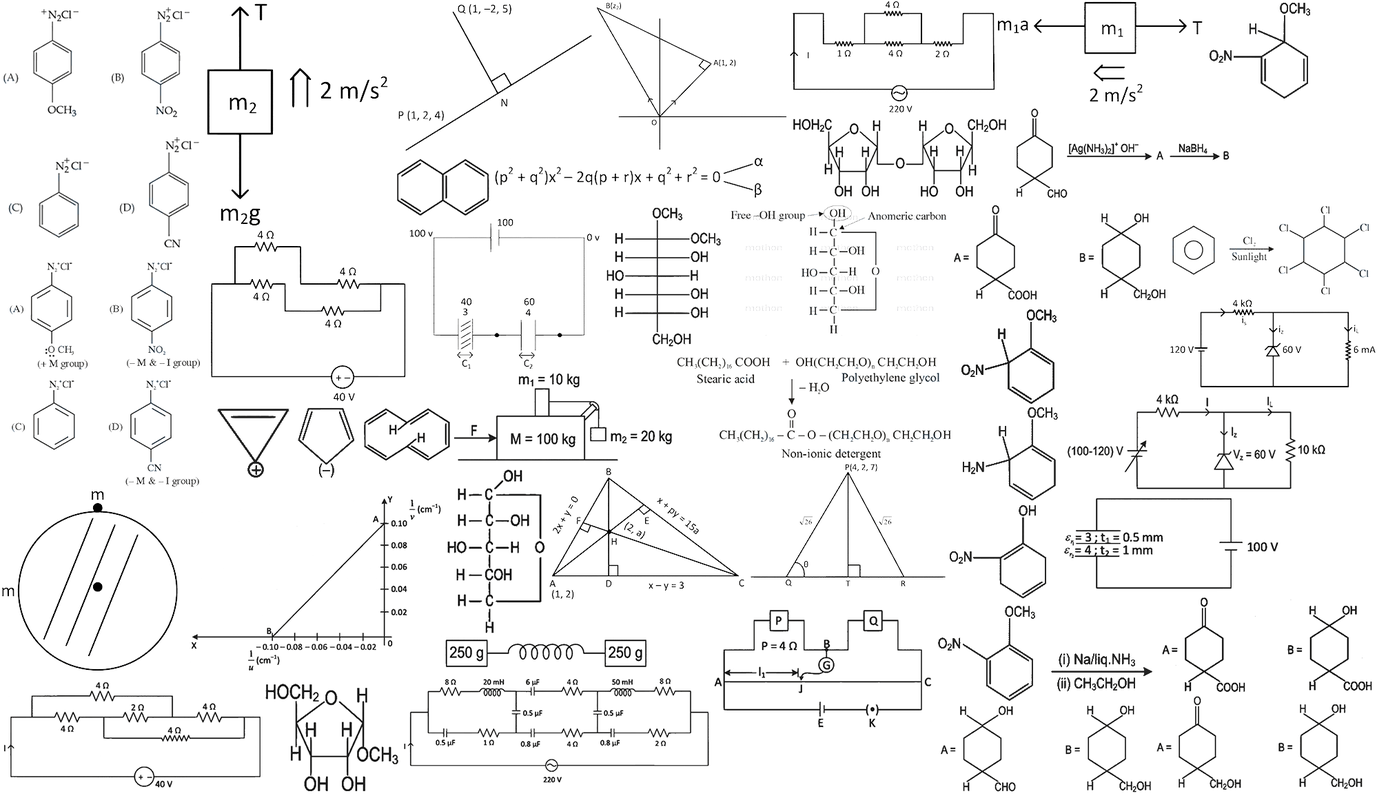
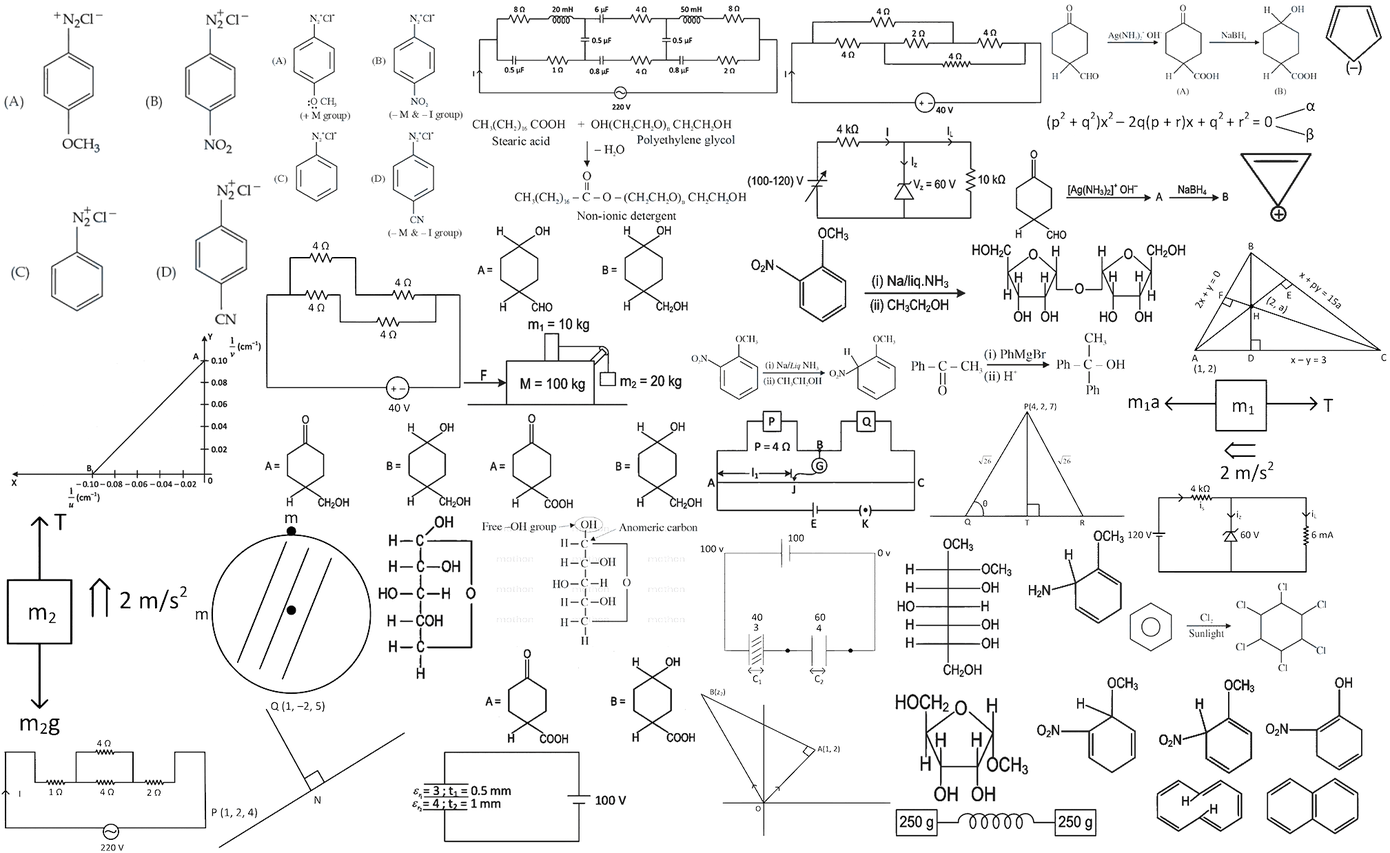
Fixed

diff --git a/img/jee/mains/prev/M2022_26_july_s1.css b/img/jee/mains/prev/M2022_26_july_s1.css
@@ -8,133 +8,142 @@ Responsive: <div class="yourspritesname"></div>
 
 
 .JEEMAINS_26JULY_S2_Q_13_O_1 {max-width:92px; max-height:108px; }
-.JEEMAINS_26JULY_S2_Q_13_O_1::after {content: '\00a0';display: inline-block; width:92px; height:108px; background-position: 22.29800629590766% 55.873925501432666%;background-size: 2171.7391304347825% 1069.4444444444443%;background-image: url(M2022_26_july_s1.png);padding: 0; }
+.JEEMAINS_26JULY_S2_Q_13_O_1::after {content: '\00a0';display: inline-block; width:92px; height:108px; background-position: 99.53246753246754% 0.08849557522123894%;background-size: 2192.391304347826% 1146.2962962962963%;background-image: url(M2022_26_july_s1.png);padding: 0; }
 div.JEEMAINS_26JULY_S2_Q_13_O_1::after {max-width:92px; width:100%;height:0;padding: 0 0 117.3913043478261% 0;}
 .JEEMAINS_26JULY_S2_Q_13_O_2 {max-width:122px; max-height:112px; }
-.JEEMAINS_26JULY_S2_Q_13_O_2::after {content: '\00a0';display: inline-block; width:122px; height:112px; background-position: 16.098081023454156% 56.0882070949185%;background-size: 1637.704918032787% 1031.25%;background-image: url(M2022_26_july_s1.png);padding: 0; }
+.JEEMAINS_26JULY_S2_Q_13_O_2::after {content: '\00a0';display: inline-block; width:122px; height:112px; background-position: 94.24802110817942% 19.00532859680284%;background-size: 1653.27868852459% 1105.357142857143%;background-image: url(M2022_26_july_s1.png);padding: 0; }
 div.JEEMAINS_26JULY_S2_Q_13_O_2::after {max-width:122px; width:100%;height:0;padding: 0 0 91.80327868852459% 0;}
 .JEEMAINS_26JULY_S2_Q_13_O_3 {max-width:140px; max-height:90px; }
-.JEEMAINS_26JULY_S2_Q_13_O_3::after {content: '\00a0';display: inline-block; width:140px; height:90px; background-position: 27.879440258342303% 54.929577464788736%;background-size: 1427.142857142857% 1283.3333333333333%;background-image: url(M2022_26_july_s1.png);padding: 0; }
+.JEEMAINS_26JULY_S2_Q_13_O_3::after {content: '\00a0';display: inline-block; width:140px; height:90px; background-position: 88.86521044219499% 97.90940766550523%;background-size: 1440.7142857142858% 1375.5555555555557%;background-image: url(M2022_26_july_s1.png);padding: 0; }
 div.JEEMAINS_26JULY_S2_Q_13_O_3::after {max-width:140px; width:100%;height:0;padding: 0 0 64.28571428571429% 0;}
 .JEEMAINS_26JULY_S2_Q_13_O_4 {max-width:140px; max-height:90px; }
-.JEEMAINS_26JULY_S2_Q_13_O_4::after {content: '\00a0';display: inline-block; width:140px; height:90px; background-position: 30.83961248654467% 21.12676056338028%;background-size: 1427.142857142857% 1283.3333333333333%;background-image: url(M2022_26_july_s1.png);padding: 0; }
+.JEEMAINS_26JULY_S2_Q_13_O_4::after {content: '\00a0';display: inline-block; width:140px; height:90px; background-position: 97.76238678742675% 97.82229965156795%;background-size: 1440.7142857142858% 1375.5555555555557%;background-image: url(M2022_26_july_s1.png);padding: 0; }
 div.JEEMAINS_26JULY_S2_Q_13_O_4::after {max-width:140px; width:100%;height:0;padding: 0 0 64.28571428571429% 0;}
 .JEEMAINS_26JULY_S2_Q_14 {max-width:320px; max-height:133px; }
-.JEEMAINS_26JULY_S2_Q_14::after {content: '\00a0';display: inline-block; width:320px; height:133px; background-position: 87.36591179976162% 15.068493150684931%;background-size: 624.375% 868.421052631579%;background-image: url(M2022_26_july_s1.png);padding: 0; }
+.JEEMAINS_26JULY_S2_Q_14::after {content: '\00a0';display: inline-block; width:320px; height:133px; background-position: 86.32881555686505% 19.36651583710407%;background-size: 630.3125% 930.827067669173%;background-image: url(M2022_26_july_s1.png);padding: 0; }
 div.JEEMAINS_26JULY_S2_Q_14::after {max-width:320px; width:100%;height:0;padding: 0 0 41.5625% 0;}
 .JEEMAINS_26JULY_S2_Q_14_O_1 {max-width:320px; max-height:141px; }
-.JEEMAINS_26JULY_S2_Q_14_O_1::after {content: '\00a0';display: inline-block; width:320px; height:141px; background-position: 99.880810488677% 99.5069033530572%;background-size: 624.375% 819.1489361702128%;background-image: url(M2022_26_july_s1.png);padding: 0; }
+.JEEMAINS_26JULY_S2_Q_14_O_1::after {content: '\00a0';display: inline-block; width:320px; height:141px; background-position: 22.510312315851504% 54.78577939835916%;background-size: 630.3125% 878.0141843971631%;background-image: url(M2022_26_july_s1.png);padding: 0; }
 div.JEEMAINS_26JULY_S2_Q_14_O_1::after {max-width:320px; width:100%;height:0;padding: 0 0 44.0625% 0;}
 .JEEMAINS_26JULY_S2_Q_14_O_2 {max-width:320px; max-height:133px; }
-.JEEMAINS_26JULY_S2_Q_14_O_2::after {content: '\00a0';display: inline-block; width:320px; height:133px; background-position: 80.75089392133492% 99.90215264187867%;background-size: 624.375% 868.421052631579%;background-image: url(M2022_26_july_s1.png);padding: 0; }
+.JEEMAINS_26JULY_S2_Q_14_O_2::after {content: '\00a0';display: inline-block; width:320px; height:133px; background-position: 40.247495580436066% 29.41176470588235%;background-size: 630.3125% 930.827067669173%;background-image: url(M2022_26_july_s1.png);padding: 0; }
 div.JEEMAINS_26JULY_S2_Q_14_O_2::after {max-width:320px; width:100%;height:0;padding: 0 0 41.5625% 0;}
 .JEEMAINS_26JULY_S2_Q_14_O_3 {max-width:320px; max-height:143px; }
-.JEEMAINS_26JULY_S2_Q_14_O_3::after {content: '\00a0';display: inline-block; width:320px; height:143px; background-position: 99.880810488677% 85.47430830039525%;background-size: 624.375% 807.6923076923077%;background-image: url(M2022_26_july_s1.png);padding: 0; }
+.JEEMAINS_26JULY_S2_Q_14_O_3::after {content: '\00a0';display: inline-block; width:320px; height:143px; background-position: 40.895698291101944% 85.84474885844749%;background-size: 630.3125% 865.7342657342657%;background-image: url(M2022_26_july_s1.png);padding: 0; }
 div.JEEMAINS_26JULY_S2_Q_14_O_3::after {max-width:320px; width:100%;height:0;padding: 0 0 44.6875% 0;}
 .JEEMAINS_26JULY_S2_Q_14_O_4 {max-width:320px; max-height:150px; }
-.JEEMAINS_26JULY_S2_Q_14_O_4::after {content: '\00a0';display: inline-block; width:320px; height:150px; background-position: 82.00238379022646% 29.054726368159205%;background-size: 624.375% 770%;background-image: url(M2022_26_july_s1.png);padding: 0; }
+.JEEMAINS_26JULY_S2_Q_14_O_4::after {content: '\00a0';display: inline-block; width:320px; height:150px; background-position: 41.42604596346494% 54.6875%;background-size: 630.3125% 825.3333333333334%;background-image: url(M2022_26_july_s1.png);padding: 0; }
 div.JEEMAINS_26JULY_S2_Q_14_O_4::after {max-width:320px; width:100%;height:0;padding: 0 0 46.875% 0;}
 .JEEMAINS_26JULY_S2_Q_16 {max-width:320px; max-height:147px; }
-.JEEMAINS_26JULY_S2_Q_16::after {content: '\00a0';display: inline-block; width:320px; height:147px; background-position: 80.75089392133492% 86.60714285714286%;background-size: 624.375% 785.7142857142857%;background-image: url(M2022_26_july_s1.png);padding: 0; }
+.JEEMAINS_26JULY_S2_Q_16::after {content: '\00a0';display: inline-block; width:320px; height:147px; background-position: 63.877430760165% 29.697525206232815%;background-size: 630.3125% 842.1768707482993%;background-image: url(M2022_26_july_s1.png);padding: 0; }
 div.JEEMAINS_26JULY_S2_Q_16::after {max-width:320px; width:100%;height:0;padding: 0 0 45.9375% 0;}
 .JEEMAINS_26JULY_S2_Q_16_O_1 {max-width:166px; max-height:143px; }
-.JEEMAINS_26JULY_S2_Q_16_O_1::after {content: '\00a0';display: inline-block; width:166px; height:143px; background-position: 75.382096069869% 43.77470355731225%;background-size: 1203.6144578313254% 807.6923076923077%;background-image: url(M2022_26_july_s1.png);padding: 0; }
+.JEEMAINS_26JULY_S2_Q_16_O_1::after {content: '\00a0';display: inline-block; width:166px; height:143px; background-position: 90.11345218800648% 89.49771689497717%;background-size: 1215.0602409638554% 865.7342657342657%;background-image: url(M2022_26_july_s1.png);padding: 0; }
 div.JEEMAINS_26JULY_S2_Q_16_O_1::after {max-width:166px; width:100%;height:0;padding: 0 0 86.144578313253% 0;}
 .JEEMAINS_26JULY_S2_Q_16_O_2 {max-width:157px; max-height:142px; }
-.JEEMAINS_26JULY_S2_Q_16_O_2::after {content: '\00a0';display: inline-block; width:157px; height:142px; background-position: 75.01357957631721% 57.9466929911155%;background-size: 1272.6114649681529% 813.3802816901408%;background-image: url(M2022_26_july_s1.png);padding: 0; }
+.JEEMAINS_26JULY_S2_Q_16_O_2::after {content: '\00a0';display: inline-block; width:157px; height:142px; background-position: 79.40860215053763% 69.8905109489051%;background-size: 1284.7133757961783% 871.830985915493%;background-image: url(M2022_26_july_s1.png);padding: 0; }
 div.JEEMAINS_26JULY_S2_Q_16_O_2::after {max-width:157px; width:100%;height:0;padding: 0 0 90.44585987261146% 0;}
 .JEEMAINS_26JULY_S2_Q_16_O_3 {max-width:151px; max-height:142px; }
-.JEEMAINS_26JULY_S2_Q_16_O_3::after {content: '\00a0';display: inline-block; width:151px; height:142px; background-position: 74.49918787222524% 72.06317867719645%;background-size: 1323.1788079470198% 813.3802816901408%;background-image: url(M2022_26_july_s1.png);padding: 0; }
+.JEEMAINS_26JULY_S2_Q_16_O_3::after {content: '\00a0';display: inline-block; width:151px; height:142px; background-position: 98.33869239013933% 89.41605839416059%;background-size: 1335.7615894039734% 871.830985915493%;background-image: url(M2022_26_july_s1.png);padding: 0; }
 div.JEEMAINS_26JULY_S2_Q_16_O_3::after {max-width:151px; width:100%;height:0;padding: 0 0 94.03973509933775% 0;}
 .JEEMAINS_26JULY_S2_Q_16_O_4 {max-width:170px; max-height:145px; }
-.JEEMAINS_26JULY_S2_Q_16_O_4::after {content: '\00a0';display: inline-block; width:170px; height:145px; background-position: 95.56892778993435% 0.09900990099009901%;background-size: 1175.2941176470588% 796.551724137931%;background-image: url(M2022_26_july_s1.png);padding: 0; }
+.JEEMAINS_26JULY_S2_Q_16_O_4::after {content: '\00a0';display: inline-block; width:170px; height:145px; background-position: 81.05035192203573% 89.66148215919488%;background-size: 1186.4705882352941% 853.7931034482758%;background-image: url(M2022_26_july_s1.png);padding: 0; }
 div.JEEMAINS_26JULY_S2_Q_16_O_4::after {max-width:170px; width:100%;height:0;padding: 0 0 85.29411764705883% 0;}
-.JEEMAINS_26JULY_S2_Q_17 {max-width:290px; max-height:359px; }
-.JEEMAINS_26JULY_S2_Q_17::after {content: '\00a0';display: inline-block; width:290px; height:359px; background-position: 0.0585480093676815% 0.12562814070351758%;background-size: 688.9655172413793% 321.72701949860726%;background-image: url(M2022_26_july_s1.png);padding: 0; }
-div.JEEMAINS_26JULY_S2_Q_17::after {max-width:290px; width:100%;height:0;padding: 0 0 123.79310344827586% 0;}
+.JEEMAINS_26JULY_S2_Q_17 {max-width:380px; max-height:471px; }
+.JEEMAINS_26JULY_S2_Q_17::after {content: '\00a0';display: inline-block; width:380px; height:471px; background-position: 0.06108735491753207% 0.1303780964797914%;background-size: 530.7894736842105% 262.84501061571126%;background-image: url(M2022_26_july_s1.png);padding: 0; }
+div.JEEMAINS_26JULY_S2_Q_17::after {max-width:380px; width:100%;height:0;padding: 0 0 123.94736842105263% 0;}
 .JEEMAINS_26JULY_S2_Q_19_O_1 {max-width:150px; max-height:246px; }
-.JEEMAINS_26JULY_S2_Q_19_O_1::after {content: '\00a0';display: inline-block; width:150px; height:246px; background-position: 34.794372294372295% 74.36743674367436%;background-size: 1332% 469.5121951219512%;background-image: url(M2022_26_july_s1.png);padding: 0; }
+.JEEMAINS_26JULY_S2_Q_19_O_1::after {content: '\00a0';display: inline-block; width:150px; height:246px; background-position: 29.084092126406% 74.8991935483871%;background-size: 1344.6666666666667% 503.2520325203252%;background-image: url(M2022_26_july_s1.png);padding: 0; }
 div.JEEMAINS_26JULY_S2_Q_19_O_1::after {max-width:150px; width:100%;height:0;padding: 0 0 164% 0;}
 .JEEMAINS_26JULY_S2_Q_19_O_2 {max-width:200px; max-height:176px; }
-.JEEMAINS_26JULY_S2_Q_19_O_2::after {content: '\00a0';display: inline-block; width:200px; height:176px; background-position: 21.24582869855395% 99.79570990806945%;background-size: 999% 656.25%;background-image: url(M2022_26_july_s1.png);padding: 0; }
+.JEEMAINS_26JULY_S2_Q_19_O_2::after {content: '\00a0';display: inline-block; width:200px; height:176px; background-position: 71.326362135388% 93.40866290018832%;background-size: 1008.5% 703.4090909090909%;background-image: url(M2022_26_july_s1.png);padding: 0; }
 div.JEEMAINS_26JULY_S2_Q_19_O_2::after {max-width:200px; width:100%;height:0;padding: 0 0 88% 0;}
 .JEEMAINS_26JULY_S2_Q_19_O_3 {max-width:320px; max-height:125px; }
-.JEEMAINS_26JULY_S2_Q_19_O_3::after {content: '\00a0';display: inline-block; width:320px; height:125px; background-position: 68.23599523241954% 16.116504854368934%;background-size: 624.375% 924%;background-image: url(M2022_26_july_s1.png);padding: 0; }
+.JEEMAINS_26JULY_S2_Q_19_O_3::after {content: '\00a0';display: inline-block; width:320px; height:125px; background-position: 82.79316440777843% 31.266846361185983%;background-size: 630.3125% 990.4%;background-image: url(M2022_26_july_s1.png);padding: 0; }
 div.JEEMAINS_26JULY_S2_Q_19_O_3::after {max-width:320px; width:100%;height:0;padding: 0 0 39.0625% 0;}
 .JEEMAINS_26JULY_S2_Q_19_O_4 {max-width:180px; max-height:217px; }
-.JEEMAINS_26JULY_S2_Q_19_O_4::after {content: '\00a0';display: inline-block; width:180px; height:217px; background-position: 48.07480748074808% 31.34328358208955%;background-size: 1110% 532.258064516129%;background-image: url(M2022_26_july_s1.png);padding: 0; }
+.JEEMAINS_26JULY_S2_Q_19_O_4::after {content: '\00a0';display: inline-block; width:180px; height:217px; background-position: 70.54980947196516% 75.80803134182175%;background-size: 1120.5555555555557% 570.5069124423964%;background-image: url(M2022_26_july_s1.png);padding: 0; }
 div.JEEMAINS_26JULY_S2_Q_19_O_4::after {max-width:180px; width:100%;height:0;padding: 0 0 120.55555555555556% 0;}
 .JEEMAINS_26JULY_S2_Q_61 {max-width:320px; max-height:135px; }
-.JEEMAINS_26JULY_S2_Q_61::after {content: '\00a0';display: inline-block; width:320px; height:135px; background-position: 39.272943980929675% 52.84313725490196%;background-size: 624.375% 855.5555555555555%;background-image: url(M2022_26_july_s1.png);padding: 0; }
+.JEEMAINS_26JULY_S2_Q_61::after {content: '\00a0';display: inline-block; width:320px; height:135px; background-position: 39.65822038892163% 41.61378059836809%;background-size: 630.3125% 917.0370370370371%;background-image: url(M2022_26_july_s1.png);padding: 0; }
 div.JEEMAINS_26JULY_S2_Q_61::after {max-width:320px; width:100%;height:0;padding: 0 0 42.1875% 0;}
 .JEEMAINS_26JULY_S2_Q_70 {max-width:380px; max-height:172px; }
-.JEEMAINS_26JULY_S2_Q_70::after {content: '\00a0';display: inline-block; width:380px; height:172px; background-position: 0.06180469715698393% 99.59308240081384%;background-size: 525.7894736842105% 671.5116279069767%;background-image: url(M2022_26_july_s1.png);padding: 0; }
+.JEEMAINS_26JULY_S2_Q_70::after {content: '\00a0';display: inline-block; width:380px; height:172px; background-position: 69.27306047648136% 0.09380863039399624%;background-size: 530.7894736842105% 719.7674418604652%;background-image: url(M2022_26_july_s1.png);padding: 0; }
 div.JEEMAINS_26JULY_S2_Q_70::after {max-width:380px; width:100%;height:0;padding: 0 0 45.26315789473684% 0;}
 .JEEMAINS_26JULY_S2_Q_77 {max-width:300px; max-height:48px; }
-.JEEMAINS_26JULY_S2_Q_77::after {content: '\00a0';display: inline-block; width:300px; height:48px; background-position: 37.8680800942285% 83.37850045167119%;background-size: 666% 2406.25%;background-image: url(M2022_26_july_s1.png);padding: 0; }
+.JEEMAINS_26JULY_S2_Q_77::after {content: '\00a0';display: inline-block; width:300px; height:48px; background-position: 75.48048922539313% 98.23529411764706%;background-size: 672.3333333333334% 2579.1666666666665%;background-image: url(M2022_26_july_s1.png);padding: 0; }
 div.JEEMAINS_26JULY_S2_Q_77::after {max-width:300px; width:100%;height:0;padding: 0 0 16% 0;}
 .JEEMAINS_26JULY_S2_Q_85 {max-width:320px; max-height:148px; }
-.JEEMAINS_26JULY_S2_Q_85::after {content: '\00a0';display: inline-block; width:320px; height:148px; background-position: 91.71632896305125% 71.10228401191658%;background-size: 624.375% 780.4054054054054%;background-image: url(M2022_26_july_s1.png);padding: 0; }
+.JEEMAINS_26JULY_S2_Q_85::after {content: '\00a0';display: inline-block; width:320px; height:148px; background-position: 34.94401885680613% 99.44954128440367%;background-size: 630.3125% 836.4864864864865%;background-image: url(M2022_26_july_s1.png);padding: 0; }
 div.JEEMAINS_26JULY_S2_Q_85::after {max-width:320px; width:100%;height:0;padding: 0 0 46.25% 0;}
 .JEEMAINS_26JULY_S2_Q_86 {max-width:320px; max-height:186px; }
-.JEEMAINS_26JULY_S2_Q_86::after {content: '\00a0';display: inline-block; width:320px; height:186px; background-position: 61.62097735399285% 90.40247678018576%;background-size: 624.375% 620.9677419354839%;background-image: url(M2022_26_july_s1.png);padding: 0; }
+.JEEMAINS_26JULY_S2_Q_86::after {content: '\00a0';display: inline-block; width:320px; height:186px; background-position: 60.34177961107837% 55.79847908745247%;background-size: 630.3125% 665.5913978494624%;background-image: url(M2022_26_july_s1.png);padding: 0; }
 div.JEEMAINS_26JULY_S2_Q_86::after {max-width:320px; width:100%;height:0;padding: 0 0 58.125% 0;}
 .JEEMAINS_26JULY_S2_Q_87 {max-width:450px; max-height:165px; }
-.JEEMAINS_26JULY_S2_Q_87::after {content: '\00a0';display: inline-block; width:450px; height:165px; background-position: 37.661498708010335% 98.68686868686869%;background-size: 444% 700%;background-image: url(M2022_26_july_s1.png);padding: 0; }
+.JEEMAINS_26JULY_S2_Q_87::after {content: '\00a0';display: inline-block; width:450px; height:165px; background-position: 43.58647096362476% 0.09319664492078285%;background-size: 448.22222222222223% 750.3030303030303%;background-image: url(M2022_26_july_s1.png);padding: 0; }
 div.JEEMAINS_26JULY_S2_Q_87::after {max-width:450px; width:100%;height:0;padding: 0 0 36.666666666666664% 0;}
 .JEEMAINS_26JULY_S2_Q_88 {max-width:380px; max-height:267px; }
-.JEEMAINS_26JULY_S2_Q_88::after {content: '\00a0';display: inline-block; width:380px; height:267px; background-position: 16.19283065512979% 79.84234234234235%;background-size: 525.7894736842105% 432.5842696629214%;background-image: url(M2022_26_july_s1.png);padding: 0; }
+.JEEMAINS_26JULY_S2_Q_88::after {content: '\00a0';display: inline-block; width:380px; height:267px; background-position: 0.06108735491753207% 48.71266735324408%;background-size: 530.7894736842105% 463.67041198501875%;background-image: url(M2022_26_july_s1.png);padding: 0; }
 div.JEEMAINS_26JULY_S2_Q_88::after {max-width:380px; width:100%;height:0;padding: 0 0 70.26315789473684% 0;}
 .JEEMAINS_26JULY_S2_Q_90 {max-width:380px; max-height:149px; }
-.JEEMAINS_26JULY_S2_Q_90::after {content: '\00a0';display: inline-block; width:380px; height:149px; background-position: 95.67367119901112% 56.262425447316105%;background-size: 525.7894736842105% 775.1677852348994%;background-image: url(M2022_26_july_s1.png);padding: 0; }
+.JEEMAINS_26JULY_S2_Q_90::after {content: '\00a0';display: inline-block; width:380px; height:149px; background-position: 66.21869273060476% 15.977961432506888%;background-size: 530.7894736842105% 830.8724832214765%;background-image: url(M2022_26_july_s1.png);padding: 0; }
 div.JEEMAINS_26JULY_S2_Q_90::after {max-width:380px; width:100%;height:0;padding: 0 0 39.21052631578947% 0;}
 .jee_mn_26_jul_2022_s2_14_sol {max-width:290px; max-height:223px; }
-.jee_mn_26_jul_2022_s2_14_sol::after {content: '\00a0';display: inline-block; width:290px; height:223px; background-position: 33.5480093676815% 0.1072961373390558%;background-size: 688.9655172413793% 517.9372197309417%;background-image: url(M2022_26_july_s1.png);padding: 0; }
+.jee_mn_26_jul_2022_s2_14_sol::after {content: '\00a0';display: inline-block; width:290px; height:223px; background-position: 17.486971627099017% 99.80295566502463%;background-size: 695.5172413793103% 555.1569506726457%;background-image: url(M2022_26_july_s1.png);padding: 0; }
 div.jee_mn_26_jul_2022_s2_14_sol::after {max-width:290px; width:100%;height:0;padding: 0 0 76.89655172413794% 0;}
 .jee_mn_26_jul_2022_s2_21_sol {max-width:400px; max-height:68px; }
-.jee_mn_26_jul_2022_s2_21_sol::after {content: '\00a0';display: inline-block; width:400px; height:68px; background-position: 44.680851063829785% 20.699172033118675%;background-size: 499.5% 1698.5294117647059%;background-image: url(M2022_26_july_s1.png);padding: 0; }
+.jee_mn_26_jul_2022_s2_21_sol::after {content: '\00a0';display: inline-block; width:400px; height:68px; background-position: 93.69202226345084% 12.393162393162394%;background-size: 504.25% 1820.5882352941176%;background-image: url(M2022_26_july_s1.png);padding: 0; }
 div.jee_mn_26_jul_2022_s2_21_sol::after {max-width:400px; width:100%;height:0;padding: 0 0 17% 0;}
 .jee_mn_26_jul_2022_s2_28_sol {max-width:290px; max-height:200px; }
-.jee_mn_26_jul_2022_s2_28_sol::after {content: '\00a0';display: inline-block; width:290px; height:200px; background-position: 46.48711943793911% 70.68062827225131%;background-size: 688.9655172413793% 577.5%;background-image: url(M2022_26_july_s1.png);padding: 0; }
+.jee_mn_26_jul_2022_s2_28_sol::after {content: '\00a0';display: inline-block; width:290px; height:200px; background-position: 99.94209612044007% 33.52601156069364%;background-size: 695.5172413793103% 619%;background-image: url(M2022_26_july_s1.png);padding: 0; }
 div.jee_mn_26_jul_2022_s2_28_sol::after {max-width:290px; width:100%;height:0;padding: 0 0 68.96551724137932% 0;}
 .jee_mn_26_jul_2022_s2_2_sol {max-width:280px; max-height:219px; }
-.jee_mn_26_jul_2022_s2_2_sol::after {content: '\00a0';display: inline-block; width:280px; height:219px; background-position: 50.29103608847497% 0.10683760683760683%;background-size: 713.5714285714286% 527.3972602739726%;background-image: url(M2022_26_july_s1.png);padding: 0; }
+.jee_mn_26_jul_2022_s2_2_sol::after {content: '\00a0';display: inline-block; width:280px; height:219px; background-position: 58.434081750143925% 97.84102060843965%;background-size: 720.3571428571429% 565.296803652968%;background-image: url(M2022_26_july_s1.png);padding: 0; }
 div.jee_mn_26_jul_2022_s2_2_sol::after {max-width:280px; width:100%;height:0;padding: 0 0 78.21428571428571% 0;}
 .jee_mn_26_jul_2022_s2_30_sol {max-width:290px; max-height:183px; }
-.jee_mn_26_jul_2022_s2_30_sol::after {content: '\00a0';display: inline-block; width:290px; height:183px; background-position: 63.52459016393443% 68.93004115226337%;background-size: 688.9655172413793% 631.1475409836065%;background-image: url(M2022_26_july_s1.png);padding: 0; }
+.jee_mn_26_jul_2022_s2_30_sol::after {content: '\00a0';display: inline-block; width:290px; height:183px; background-position: 77.88071800810654% 55.165876777251185%;background-size: 695.5172413793103% 676.5027322404371%;background-image: url(M2022_26_july_s1.png);padding: 0; }
 div.jee_mn_26_jul_2022_s2_30_sol::after {max-width:290px; width:100%;height:0;padding: 0 0 63.10344827586207% 0;}
 .jee_mn_26_jul_2022_s2_31_sol_1 {max-width:300px; max-height:152px; }
-.jee_mn_26_jul_2022_s2_31_sol_1::after {content: '\00a0';display: inline-block; width:300px; height:152px; background-position: 85.15901060070671% 0.09970089730807577%;background-size: 666% 759.8684210526316%;background-image: url(M2022_26_july_s1.png);padding: 0; }
+.jee_mn_26_jul_2022_s2_31_sol_1::after {content: '\00a0';display: inline-block; width:300px; height:152px; background-position: 95.28246942341293% 50.552486187845304%;background-size: 672.3333333333334% 814.4736842105264%;background-image: url(M2022_26_july_s1.png);padding: 0; }
 div.jee_mn_26_jul_2022_s2_31_sol_1::after {max-width:300px; width:100%;height:0;padding: 0 0 50.666666666666664% 0;}
 .jee_mn_26_jul_2022_s2_31_sol_2 {max-width:280px; max-height:331px; }
-.jee_mn_26_jul_2022_s2_31_sol_2::after {content: '\00a0';display: inline-block; width:280px; height:331px; background-position: 16.996507566938302% 0.12135922330097088%;background-size: 713.5714285714286% 348.9425981873112%;background-image: url(M2022_26_july_s1.png);padding: 0; }
+.jee_mn_26_jul_2022_s2_31_sol_2::after {content: '\00a0';display: inline-block; width:280px; height:331px; background-position: 0.057570523891767415% 81.69790518191841%;background-size: 720.3571428571429% 374.0181268882175%;background-image: url(M2022_26_july_s1.png);padding: 0; }
 div.jee_mn_26_jul_2022_s2_31_sol_2::after {max-width:280px; width:100%;height:0;padding: 0 0 118.21428571428571% 0;}
 .jee_mn_26_jul_2022_s2_40_sol {max-width:290px; max-height:251px; }
-.jee_mn_26_jul_2022_s2_40_sol::after {content: '\00a0';display: inline-block; width:290px; height:251px; background-position: 17.681498829039814% 36.836283185840706%;background-size: 688.9655172413793% 460.1593625498008%;background-image: url(M2022_26_july_s1.png);padding: 0; }
+.jee_mn_26_jul_2022_s2_40_sol::after {content: '\00a0';display: inline-block; width:290px; height:251px; background-position: 22.119281991893455% 35.3596757852077%;background-size: 695.5172413793103% 493.22709163346616%;background-image: url(M2022_26_july_s1.png);padding: 0; }
 div.jee_mn_26_jul_2022_s2_40_sol::after {max-width:290px; width:100%;height:0;padding: 0 0 86.55172413793103% 0;}
 .jee_mn_26_jul_2022_s2_52_sol {max-width:260px; max-height:269px; }
-.jee_mn_26_jul_2022_s2_52_sol::after {content: '\00a0';display: inline-block; width:260px; height:269px; background-position: 0.05753739930955121% 80.02257336343115%;background-size: 768.4615384615385% 429.36802973977694%;background-image: url(M2022_26_july_s1.png);padding: 0; }
+.jee_mn_26_jul_2022_s2_52_sol::after {content: '\00a0';display: inline-block; width:260px; height:269px; background-position: 16.050085372794538% 76.67698658410733%;background-size: 775.7692307692307% 460.2230483271375%;background-image: url(M2022_26_july_s1.png);padding: 0; }
 div.jee_mn_26_jul_2022_s2_52_sol::after {max-width:260px; width:100%;height:0;padding: 0 0 103.46153846153847% 0;}
 .jee_mn_26_jul_2022_s2_55_sol {max-width:280px; max-height:222px; }
-.jee_mn_26_jul_2022_s2_55_sol::after {content: '\00a0';display: inline-block; width:280px; height:222px; background-position: 34.51688009313155% 33.869239013933544%;background-size: 713.5714285714286% 520.2702702702703%;background-image: url(M2022_26_july_s1.png);padding: 0; }
+.jee_mn_26_jul_2022_s2_55_sol::after {content: '\00a0';display: inline-block; width:280px; height:222px; background-position: 58.434081750143925% 76.18110236220473%;background-size: 720.3571428571429% 557.6576576576576%;background-image: url(M2022_26_july_s1.png);padding: 0; }
 div.jee_mn_26_jul_2022_s2_55_sol::after {max-width:280px; width:100%;height:0;padding: 0 0 79.28571428571429% 0;}
 .jee_mn_26_jul_2022_s2_57_sol {max-width:300px; max-height:164px; }
-.jee_mn_26_jul_2022_s2_57_sol::after {content: '\00a0';display: inline-block; width:300px; height:164px; background-position: 67.43227326266195% 0.10090817356205853%;background-size: 666% 704.2682926829268%;background-image: url(M2022_26_july_s1.png);padding: 0; }
+.jee_mn_26_jul_2022_s2_57_sol::after {content: '\00a0';display: inline-block; width:300px; height:164px; background-position: 0.05824111822947001% 99.90689013035382%;background-size: 672.3333333333334% 754.8780487804878%;background-image: url(M2022_26_july_s1.png);padding: 0; }
 div.jee_mn_26_jul_2022_s2_57_sol::after {max-width:300px; width:100%;height:0;padding: 0 0 54.666666666666664% 0;}
 .jee_mn_26_jul_2022_s2_60_sol {max-width:300px; max-height:132px; }
-.jee_mn_26_jul_2022_s2_60_sol::after {content: '\00a0';display: inline-block; width:300px; height:132px; background-position: 99.94110718492344% 42.32649071358749%;background-size: 666% 875%;background-image: url(M2022_26_july_s1.png);padding: 0; }
+.jee_mn_26_jul_2022_s2_60_sol::after {content: '\00a0';display: inline-block; width:300px; height:132px; background-position: 95.28246942341293% 63.47197106690778%;background-size: 672.3333333333334% 937.8787878787879%;background-image: url(M2022_26_july_s1.png);padding: 0; }
 div.jee_mn_26_jul_2022_s2_60_sol::after {max-width:300px; width:100%;height:0;padding: 0 0 44% 0;}
+.jee_mn_26_jul_2022_s2_74_sol {max-width:400px; max-height:143px; }
+.jee_mn_26_jul_2022_s2_74_sol::after {content: '\00a0';display: inline-block; width:400px; height:143px; background-position: 93.69202226345084% 0.091324200913242%;background-size: 504.25% 865.7342657342657%;background-image: url(M2022_26_july_s1.png);padding: 0; }
+div.jee_mn_26_jul_2022_s2_74_sol::after {max-width:400px; width:100%;height:0;padding: 0 0 35.75% 0;}
+.jee_mn_26_jul_2022_s2_75_sol {max-width:320px; max-height:107px; }
+.jee_mn_26_jul_2022_s2_75_sol::after {content: '\00a0';display: inline-block; width:320px; height:107px; background-position: 77.48968768414849% 41.90981432360743%;background-size: 630.3125% 1157.0093457943926%;background-image: url(M2022_26_july_s1.png);padding: 0; }
+div.jee_mn_26_jul_2022_s2_75_sol::after {max-width:320px; width:100%;height:0;padding: 0 0 33.4375% 0;}
+.jee_mn_26_jul_2022_s2_76_sol {max-width:320px; max-height:114px; }
+.jee_mn_26_jul_2022_s2_76_sol::after {content: '\00a0';display: inline-block; width:320px; height:114px; background-position: 58.57395403653506% 41.99288256227758%;background-size: 630.3125% 1085.9649122807018%;background-image: url(M2022_26_july_s1.png);padding: 0; }
+div.jee_mn_26_jul_2022_s2_76_sol::after {max-width:320px; width:100%;height:0;padding: 0 0 35.625% 0;}
 .jee_mn_26_jul_2022_s2_77_sol {max-width:300px; max-height:347px; }
-.jee_mn_26_jul_2022_s2_77_sol::after {content: '\00a0';display: inline-block; width:300px; height:347px; background-position: 0.05889281507656066% 44.67821782178218%;background-size: 666% 332.8530259365994%;background-image: url(M2022_26_july_s1.png);padding: 0; }
+.jee_mn_26_jul_2022_s2_77_sol::after {content: '\00a0';display: inline-block; width:300px; height:347px; background-position: 22.248107163657544% 0.1122334455667789%;background-size: 672.3333333333334% 356.7723342939481%;background-image: url(M2022_26_july_s1.png);padding: 0; }
 div.jee_mn_26_jul_2022_s2_77_sol::after {max-width:300px; width:100%;height:0;padding: 0 0 115.66666666666667% 0;}
 .jee_mn_26_jul_2022_s2_78_sol {max-width:400px; max-height:157px; }
-.jee_mn_26_jul_2022_s2_78_sol::after {content: '\00a0';display: inline-block; width:400px; height:157px; background-position: 61.32665832290363% 51.30260521042084%;background-size: 499.5% 735.6687898089172%;background-image: url(M2022_26_july_s1.png);padding: 0; }
+.jee_mn_26_jul_2022_s2_78_sol::after {content: '\00a0';display: inline-block; width:400px; height:157px; background-position: 42.2387136672851% 15.448658649398705%;background-size: 504.25% 788.5350318471337%;background-image: url(M2022_26_july_s1.png);padding: 0; }
 div.jee_mn_26_jul_2022_s2_78_sol::after {max-width:400px; width:100%;height:0;padding: 0 0 39.25% 0;}
 .jee_mn_26_jul_2022_s2_79_sol {max-width:320px; max-height:193px; }
-.jee_mn_26_jul_2022_s2_79_sol::after {content: '\00a0';display: inline-block; width:320px; height:193px; background-position: 62.87246722288439% 30.56133056133056%;background-size: 624.375% 598.4455958549223%;background-image: url(M2022_26_july_s1.png);padding: 0; }
+.jee_mn_26_jul_2022_s2_79_sol::after {content: '\00a0';display: inline-block; width:320px; height:193px; background-position: 40.895698291101944% 71.38755980861244%;background-size: 630.3125% 641.4507772020726%;background-image: url(M2022_26_july_s1.png);padding: 0; }
 div.jee_mn_26_jul_2022_s2_79_sol::after {max-width:320px; width:100%;height:0;padding: 0 0 60.3125% 0;}
 .jee_mn_26_jul_2022_s2_90_sol {max-width:300px; max-height:144px; }
-.jee_mn_26_jul_2022_s2_90_sol::after {content: '\00a0';display: inline-block; width:300px; height:144px; background-position: 99.94110718492344% 28.486646884272997%;background-size: 666% 802.0833333333334%;background-image: url(M2022_26_july_s1.png);padding: 0; }
+.jee_mn_26_jul_2022_s2_90_sol::after {content: '\00a0';display: inline-block; width:300px; height:144px; background-position: 95.22422830518346% 76.3254113345521%;background-size: 672.3333333333334% 859.7222222222222%;background-image: url(M2022_26_july_s1.png);padding: 0; }
 div.jee_mn_26_jul_2022_s2_90_sol::after {max-width:300px; width:100%;height:0;padding: 0 0 48% 0;}
 
-/* $TexturePacker:SmartUpdate:66691aa4b239d68d4bfe0671e1de66bd:f0c35343be8a84606f330798e677ed12:586039316b7442546169a0b8b82dba4d$ */
+/* $TexturePacker:SmartUpdate:182274450de905c163e592582e5d1e53:54cf5e298bab0694d632664c0d1399f8:586039316b7442546169a0b8b82dba4d$ */
